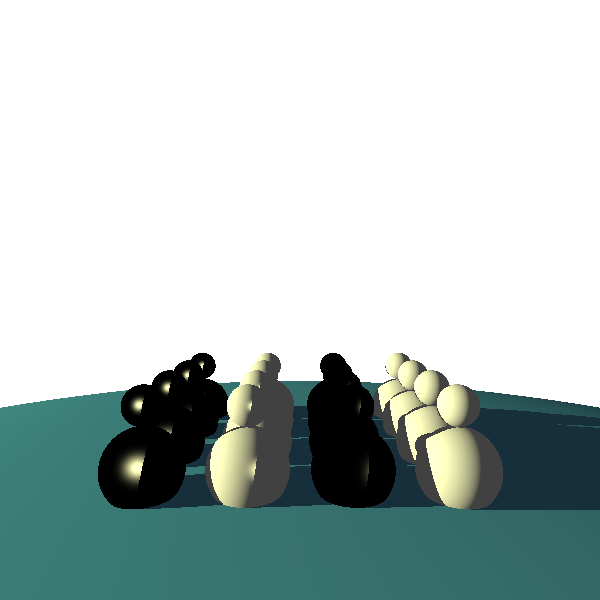
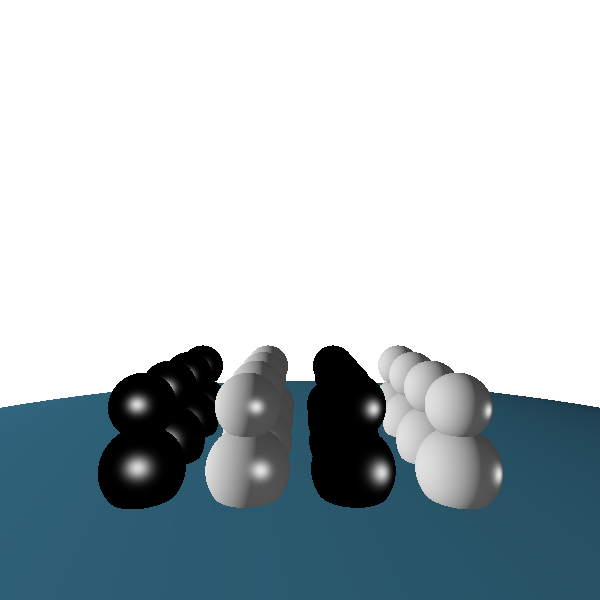
a04

Changed region(s): [[0.0, 0.57, 1.0, 1.0], [0.21, 0.75, 0.27, 0.81], [0.75, 0.99, 0.78, 1.0]]

diff --git a/src/cgg/A04.java b/src/cgg/A04.java
@@ -40,16 +40,16 @@ public class A04 {
         
         // 5.1 添加方向光源（太阳光）
         Vec3 lichtRichtung = new Vec3(5, -1, -0.9).normalize();  // 光源方向
-        Color lichtIntensitaet = new Color(2.0f, 2.0f, 1.0f);   // 白光强度
+        Color lichtIntensitaet = new Color(1.0f, 1.0f, 1.0f);   
         lichtquellen.add(Lichtquelle.createRichtungslicht(lichtRichtung, lichtIntensitaet));
         
         // 5.2 添加点光源（灯泡，在场景上方）
-        Vec3 punktLichtPos = new Vec3(5, -2, -1);  // 点光源位置（球体上方）
-        Color punktLichtIntens = new Color(1, 1, 1f);  // 点光源强度
+        Vec3 punktLichtPos = new Vec3(5, 0, -1);  // 点光源位置（球体上方）
+        Color punktLichtIntens = new Color(10, 10, 10); 
         lichtquellen.add(Lichtquelle.createPunktlicht(punktLichtPos, punktLichtIntens));
 
     
-        // 6. 创建光线追踪器（传入光源列表）
+        // 6. 光线追踪（传入光源列表）
         SimpleRayTracer rayTracer = new SimpleRayTracer(
             camera,
             scene,
@@ -69,7 +69,7 @@ public class A04 {
 }    
 
 
-// 放在A04.java的类内部，作为工具方法
+
 private static Group createSnowman(Vec3 baseCenter, double baseRadius, Color color) {
     Group snowman = new Group();
     
@@ -78,10 +78,10 @@ private static Group createSnowman(Vec3 baseCenter, double baseRadius, Color col
     snowman.addChild(baseSphere);
     
     // 上小球（半径为大球的1/2，位置在正上方）
-    double topRadius = baseRadius / 2;
+    double topRadius = 1.4;
     Vec3 topCenter = new Vec3(
         baseCenter.x(), 
-        baseCenter.y() + baseRadius + topRadius, // y轴偏移：大球半径+小球半径
+        baseCenter.y() + baseRadius + topRadius -0.5, // y轴偏移：大球半径+小球半径
         baseCenter.z()
     );
     Sphere topSphere = new Sphere(topCenter, topRadius, color);
@@ -90,14 +90,14 @@ private static Group createSnowman(Vec3 baseCenter, double baseRadius, Color col
     return snowman;
 }
 
-// 创建4×4雪人矩阵
+// 4×4雪人矩阵
     private static List<Shape> createSnowmanGrid(int rows, int cols) {
         List<Shape> shapes = new ArrayList<>();
         double baseRadius = 1.8; // 保留原大球半径
         double spacing = 4.5;    // 保留原间距
         double yPos = 1 + baseRadius; // 下大球的y位置（原球体y坐标）
 
-        // 中心偏移计算（保持矩阵居中，不变）
+        // 中心偏移 保持矩阵居中不变
         double centerOffsetX = (cols - 1) * spacing / 2.0;
         double centerOffsetZ = (rows - 1) * spacing / 2.0;
 

diff --git a/src/tools/SimpleRayTracer.java b/src/tools/SimpleRayTracer.java
@@ -77,7 +77,7 @@ public class SimpleRayTracer {
      */
     private Color shade(Hit hit) {
         Vec3 p = hit.position();       // 交点坐标
-        Vec3 n = hit.normal().normalize();  // 法向量（归一化）
+        Vec3 n = hit.normal().normalize();  // 法向量归一
         Vec3 v = camera.position().subtract(p).normalize();  // 视线方向
         Color objColor = hit.color();  // 物体颜色
 
@@ -153,10 +153,9 @@ public class SimpleRayTracer {
         for (Shape shape : scene) {
             Hit hit = shape.intersect(shadowRay);
             if (hit != null && shadowRay.isWithinBounds(hit.t())) {
-                return true; // 被任何形状遮挡
+                return false; // 被任何形状遮挡
             }
         }
-
 
         // 6. 无遮挡
         return false;

diff --git a/src/tools/Shape.java b/src/tools/Shape.java
@@ -1,11 +1,10 @@
-// tools/Shape.java（新建文件，仅包含接口定义）
 package tools;
 
 import tools.Hit;
 import tools.Ray;
 
-// 定义Shape接口，所有可被光线检测的形状都要实现它
+
 public interface Shape {
-    // 必须实现的方法：检测光线与形状的交点
+    
     Hit intersect(Ray ray);
 }
